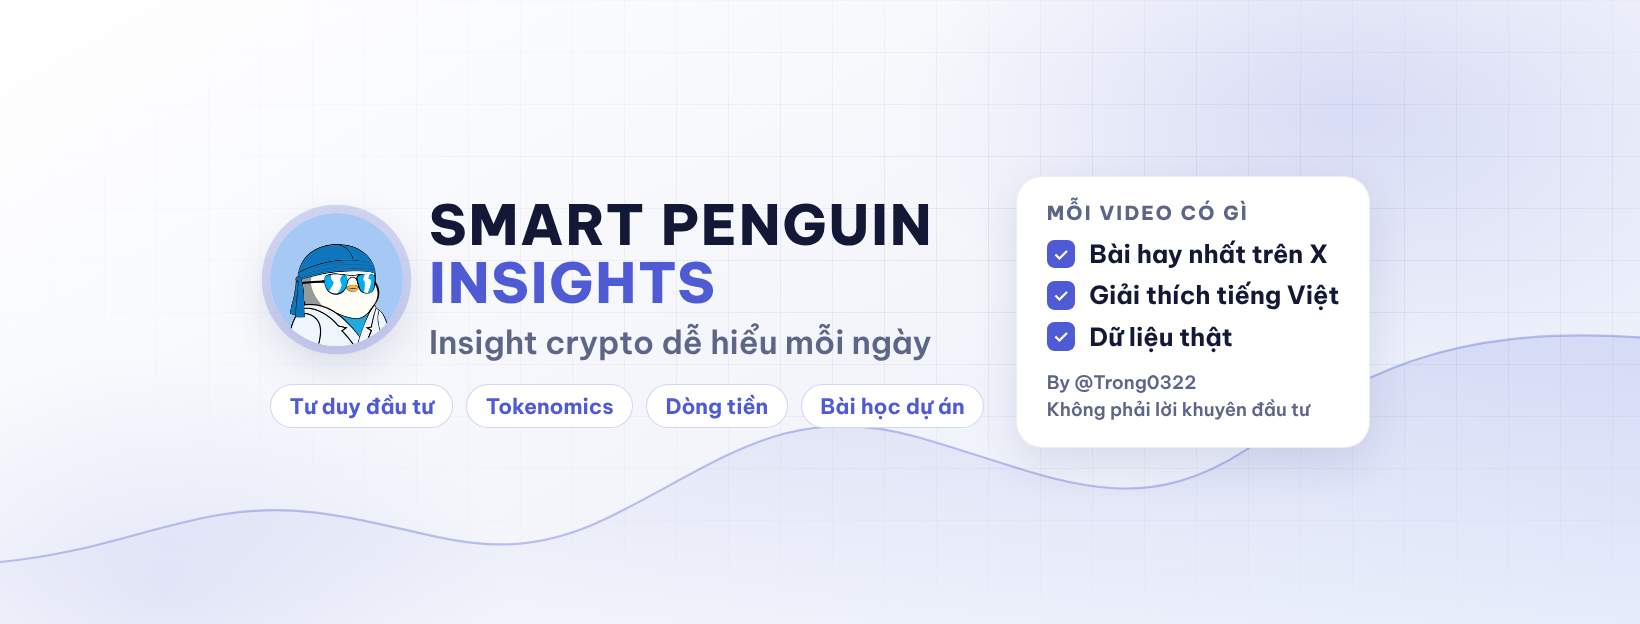
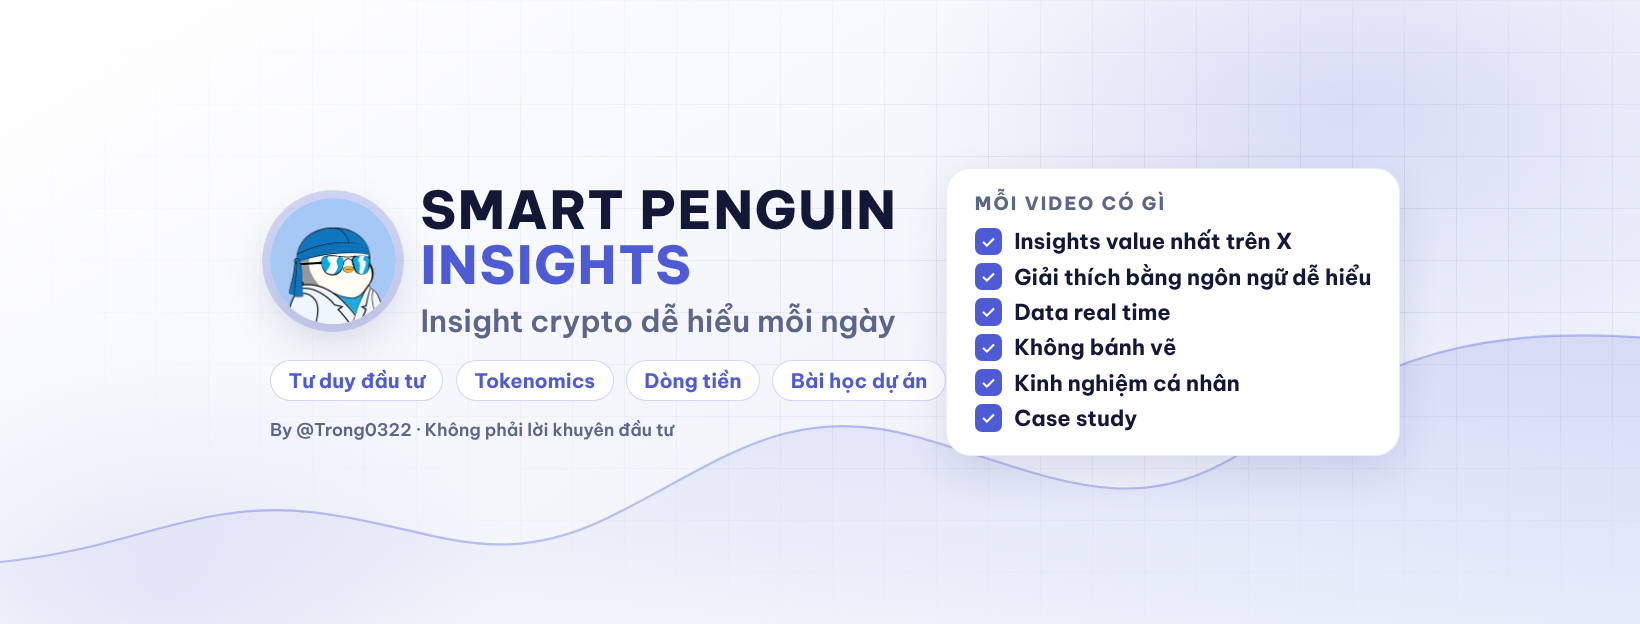
Ảnh bìa: 6 điểm mới (Insights value nhất trên X, ngôn ngữ dễ hiểu, data real time, không bánh vẽ, kinh nghiệm cá nhân, case study)
Claude-Session: https://claude.ai/code/session_01JEaTu9AXammCfPmBQArb68

Changed region(s): [[0.1555, 0.2436, 0.8707, 0.7308]]

diff --git a/branding/banner-template.html b/branding/banner-template.html
@@ -27,7 +27,7 @@ svg.wave{position:absolute;left:0;bottom:0;width:100%;height:60%}
 .chip{white-space:nowrap;font-weight:700;font-size:calc(var(--U)*1.15);padding:calc(var(--U)*.42) calc(var(--U)*1);border-radius:999px;background:#fff;border:1px solid rgba(79,91,213,.25);color:var(--ac)}
 .card{background:#fff;border-radius:calc(var(--U)*1.4);padding:calc(var(--U)*1.3) calc(var(--U)*1.6);box-shadow:0 calc(var(--U)*.8) calc(var(--U)*2.4) rgba(40,50,110,.12);border:1px solid var(--line);min-width:calc(var(--U)*17)}
 .card h4{font-weight:800;font-size:calc(var(--U)*1.05);letter-spacing:calc(var(--U)*.12);color:var(--muted);margin-bottom:calc(var(--U)*.7)}
-.row{white-space:nowrap;display:flex;align-items:center;gap:calc(var(--U)*.75);font-weight:700;font-size:calc(var(--U)*1.35);margin-top:calc(var(--U)*.5)}
+.row{white-space:nowrap;display:flex;align-items:center;gap:calc(var(--U)*.7);font-weight:700;font-size:calc(var(--U)*1.25);margin-top:calc(var(--U)*.42)}
 .tick{width:calc(var(--U)*1.55);height:calc(var(--U)*1.55);border-radius:calc(var(--U)*.4);background:var(--ac);color:#fff;display:flex;align-items:center;justify-content:center;font-size:calc(var(--U)*.95);flex-shrink:0}
 .foot{white-space:nowrap;line-height:1.45;margin-top:calc(var(--U)*.9);font-weight:600;font-size:calc(var(--U)*1);color:var(--muted)}
 </style></head>
@@ -48,13 +48,16 @@ svg.wave{position:absolute;left:0;bottom:0;width:100%;height:60%}
       </div>
     </div>
     <div class="chips"><div class="chip">Tư duy đầu tư</div><div class="chip">Tokenomics</div><div class="chip">Dòng tiền</div><div class="chip">Bài học dự án</div></div>
+    <div class="foot">By @Trong0322 · Không phải lời khuyên đầu tư</div>
   </div>
   <div class="card">
     <h4>MỖI VIDEO CÓ GÌ</h4>
-    <div class="row"><div class="tick">✓</div>Bài hay nhất trên X</div>
-    <div class="row"><div class="tick">✓</div>Giải thích tiếng Việt</div>
-    <div class="row"><div class="tick">✓</div>Dữ liệu thật</div>
-    <div class="foot">By @Trong0322<br>Không phải lời khuyên đầu tư</div>
+        <div class="row"><div class="tick">✓</div>Insights value nhất trên X</div>
+    <div class="row"><div class="tick">✓</div>Giải thích bằng ngôn ngữ dễ hiểu</div>
+    <div class="row"><div class="tick">✓</div>Data real time</div>
+    <div class="row"><div class="tick">✓</div>Không bánh vẽ</div>
+    <div class="row"><div class="tick">✓</div>Kinh nghiệm cá nhân</div>
+    <div class="row"><div class="tick">✓</div>Case study</div>
   </div>
 </div>
 </body></html>
